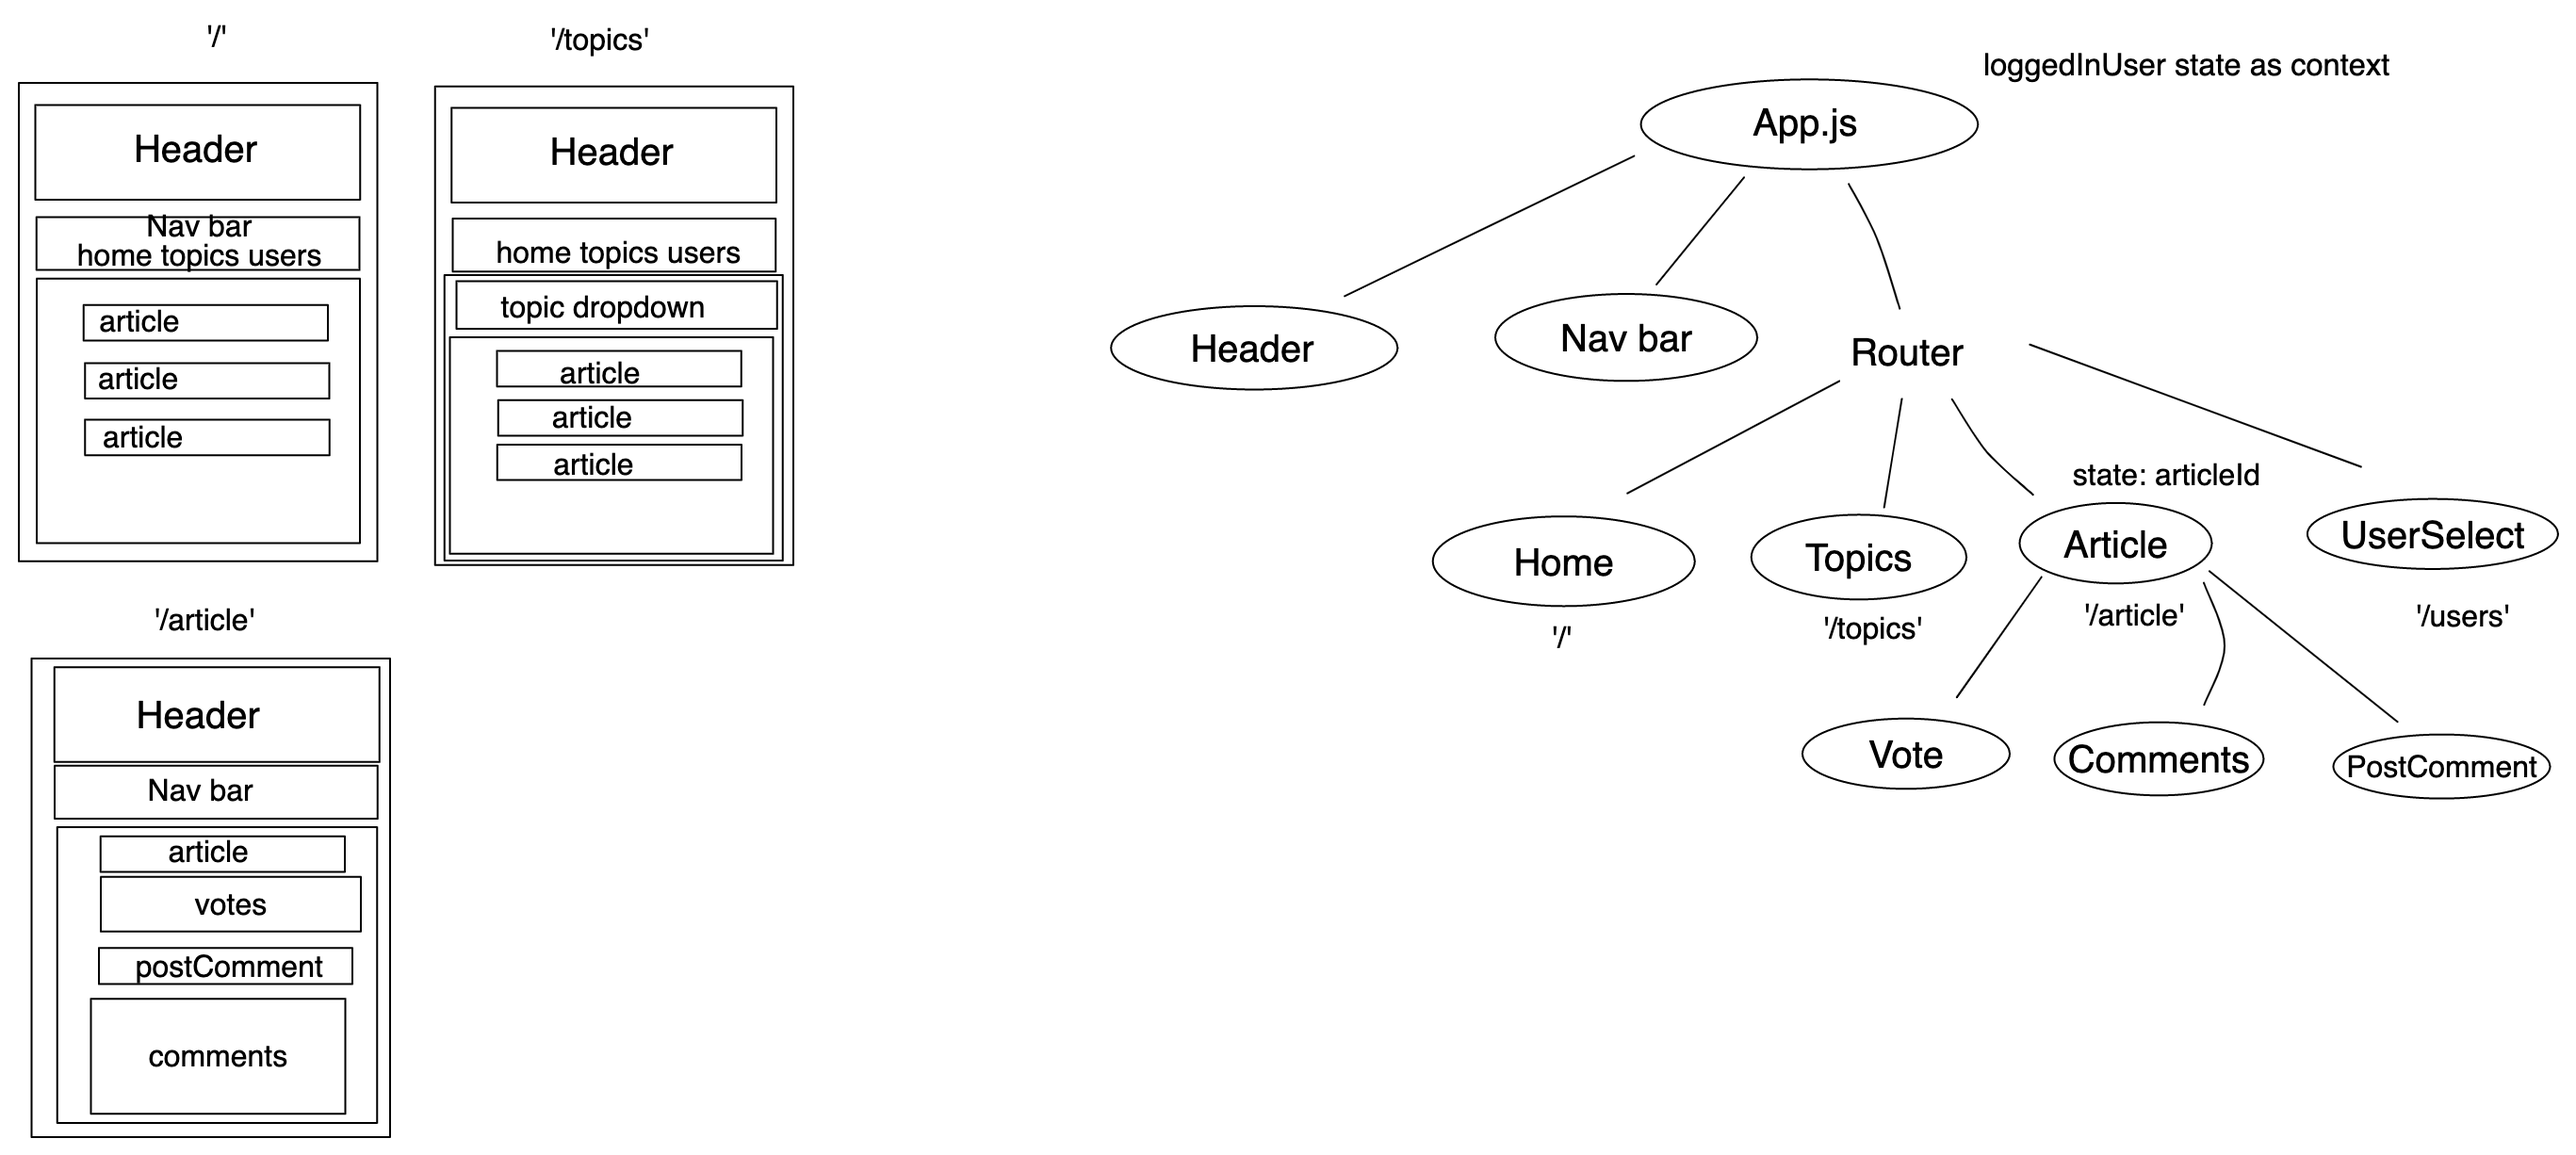
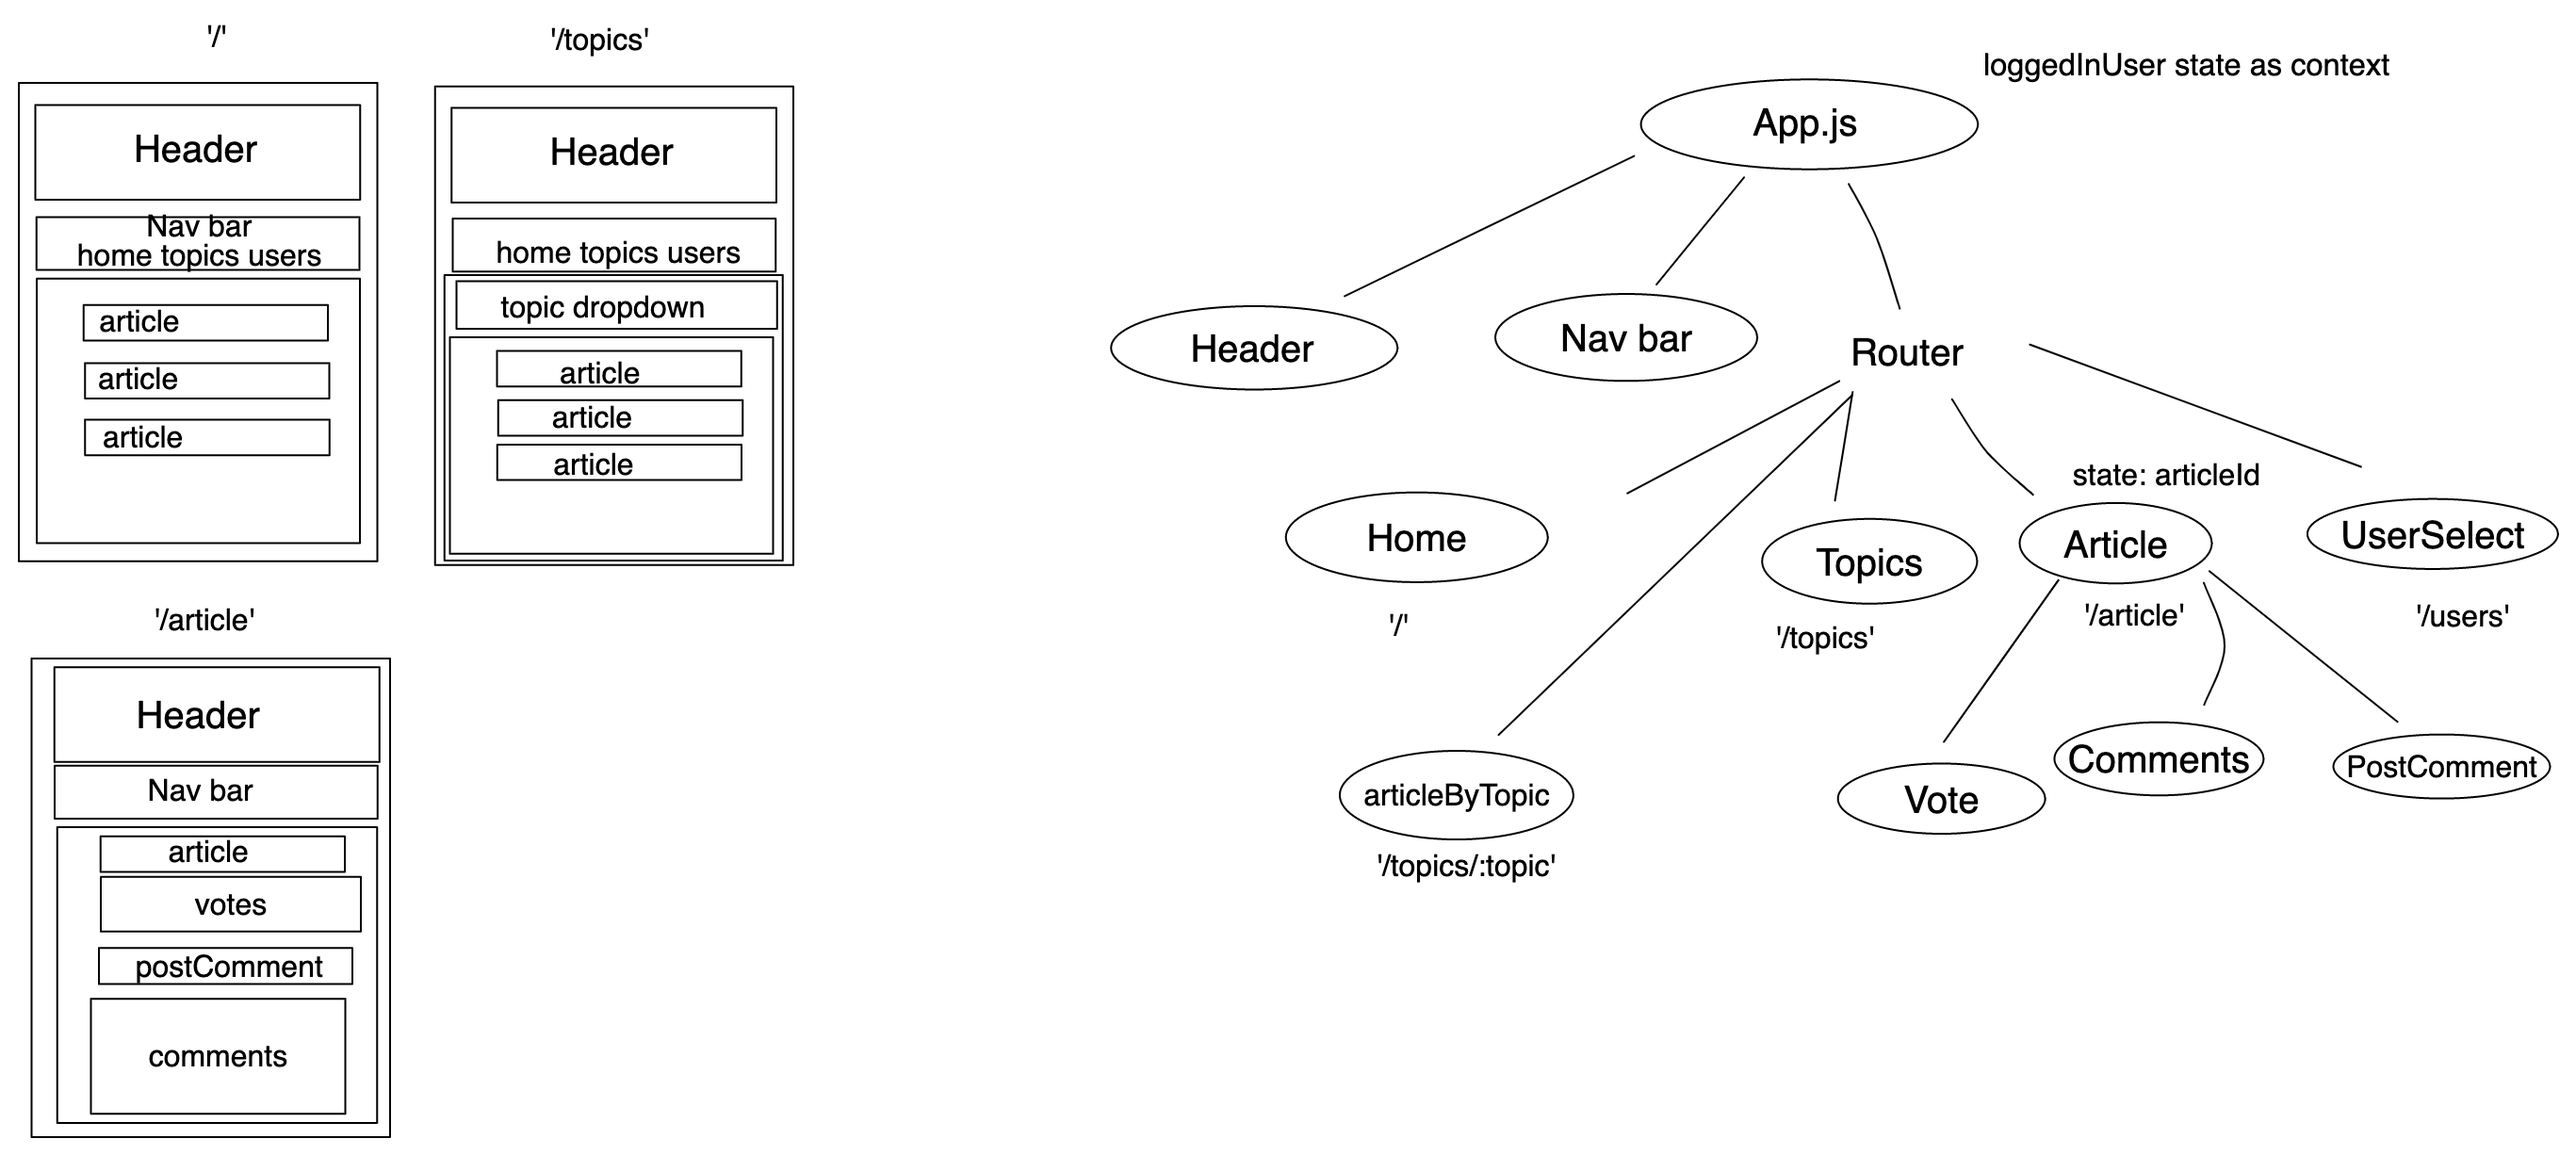
complete article selection by topic, dynamic topic list with separate linkable endpoints

diff --git a/src/components/ArticlesByTopic.jsx b/src/components/ArticlesByTopic.jsx
@@ -1,0 +1,37 @@
+import { useEffect, useState } from "react";
+import { useParams } from "react-router-dom";
+
+import { fetchArticlesByTopic } from "../utils/api";
+import ArticleCard from "./ArticleCard";
+import TopicMenu from "./TopicMenu";
+
+const ArticlesByTopic = () => {
+  const { topic } = useParams();
+
+  const [articles, setArticles] = useState([]);
+
+  useEffect(() => {
+    fetchArticlesByTopic(topic).then(({ articles }) => {
+      setArticles(articles);
+    });
+  }, [topic]);
+
+  return (
+    <div>
+      <TopicMenu />
+      <section>
+        <ul>
+          {articles.map((article, index) => {
+            return (
+              <li key={index}>
+                <ArticleCard article={article} />
+              </li>
+            );
+          })}
+        </ul>
+      </section>
+    </div>
+  );
+};
+
+export default ArticlesByTopic;

diff --git a/src/components/TopicMenu.jsx b/src/components/TopicMenu.jsx
@@ -1,0 +1,30 @@
+import { fetchTopics } from "../utils/api";
+import { useEffect, useState } from "react";
+import { Link } from "react-router-dom";
+
+const TopicMenu = ({ chosenTopic, setTopic }) => {
+  const [allTopics, setAllTopics] = useState([]);
+
+  useEffect(() => {
+    fetchTopics().then(({ topics }) => {
+      setAllTopics(topics);
+    });
+  }, []);
+
+  return (
+    <div>
+      {allTopics.map((topic, index) => {
+        return (
+          <section key={index}>
+            <Link to={`/topics/${topic.slug}`}>
+              {topic.slug} - {topic.description}
+            </Link>
+            <br></br>
+          </section>
+        );
+      })}
+    </div>
+  );
+};
+
+export default TopicMenu;

diff --git a/src/components/Home.jsx b/src/components/Home.jsx
@@ -1,29 +1,7 @@
-import { useEffect, useState } from "react";
-import { fetchArticles } from "../utils/api";
-import ArticleCard from "../utils/ArticleCard";
+import Articles from "./Articles";
 
 const Home = () => {
-  const [articles, setArticles] = useState([]);
-
-  useEffect(() => {
-    fetchArticles().then(({ articles }) => {
-      setArticles(articles);
-    });
-  }, []);
-
-  return (
-    <section>
-      <ul>
-        {articles.map((article, index) => {
-          return (
-            <li key={index}>
-              <ArticleCard article={article} />
-            </li>
-          );
-        })}
-      </ul>
-    </section>
-  );
+  return <Articles />;
 };
 
 export default Home;

diff --git a/src/utils/api.js b/src/utils/api.js
@@ -1,8 +1,24 @@
 import axios from "axios";
 
-export const fetchArticles = (item) => {
+export const fetchArticles = () => {
   return axios
     .get("https://salford-news.herokuapp.com/api/articles")
+    .then(({ data }) => {
+      return data;
+    });
+};
+
+export const fetchTopics = () => {
+  return axios
+    .get("https://salford-news.herokuapp.com/api/topics")
+    .then(({ data }) => {
+      return data;
+    });
+};
+
+export const fetchArticlesByTopic = (chosenTopic) => {
+  return axios
+    .get(`https://salford-news.herokuapp.com/api/articles?topic=${chosenTopic}`)
     .then(({ data }) => {
       return data;
     });

diff --git a/src/components/Articles.jsx b/src/components/Articles.jsx
@@ -1,0 +1,29 @@
+import { fetchArticles } from "../utils/api";
+import { useState, useEffect } from "react";
+import ArticleCard from "./ArticleCard";
+
+const Articles = () => {
+  const [articles, setArticles] = useState([]);
+
+  useEffect(() => {
+    fetchArticles().then(({ articles }) => {
+      setArticles(articles);
+    });
+  }, []);
+
+  return (
+    <section>
+      <ul>
+        {articles.map((article, index) => {
+          return (
+            <li key={index}>
+              <ArticleCard article={article} />
+            </li>
+          );
+        })}
+      </ul>
+    </section>
+  );
+};
+
+export default Articles;

diff --git a/src/App.js b/src/App.js
@@ -4,6 +4,8 @@ import "./App.css";
 import Header from "./components/Header";
 import Home from "./components/Home";
 import NavBar from "./components/NavBar";
+import Topics from "./components/Topics";
+import ArticlesByTopic from "./components/ArticlesByTopic";
 
 function App() {
   return (
@@ -12,6 +14,8 @@ function App() {
       <NavBar />
       <Routes>
         <Route path="/" element={<Home />}></Route>
+        <Route path="/topics" element={<Topics />}></Route>
+        <Route path="/topics/:topic" element={<ArticlesByTopic />}></Route>
       </Routes>
     </div>
   );

diff --git a/src/components/Topics.jsx b/src/components/Topics.jsx
@@ -1,0 +1,13 @@
+import Articles from "./Articles";
+import TopicMenu from "./TopicMenu";
+
+const Topics = () => {
+  return (
+    <div>
+      <TopicMenu />s
+      <Articles />
+    </div>
+  );
+};
+
+export default Topics;
